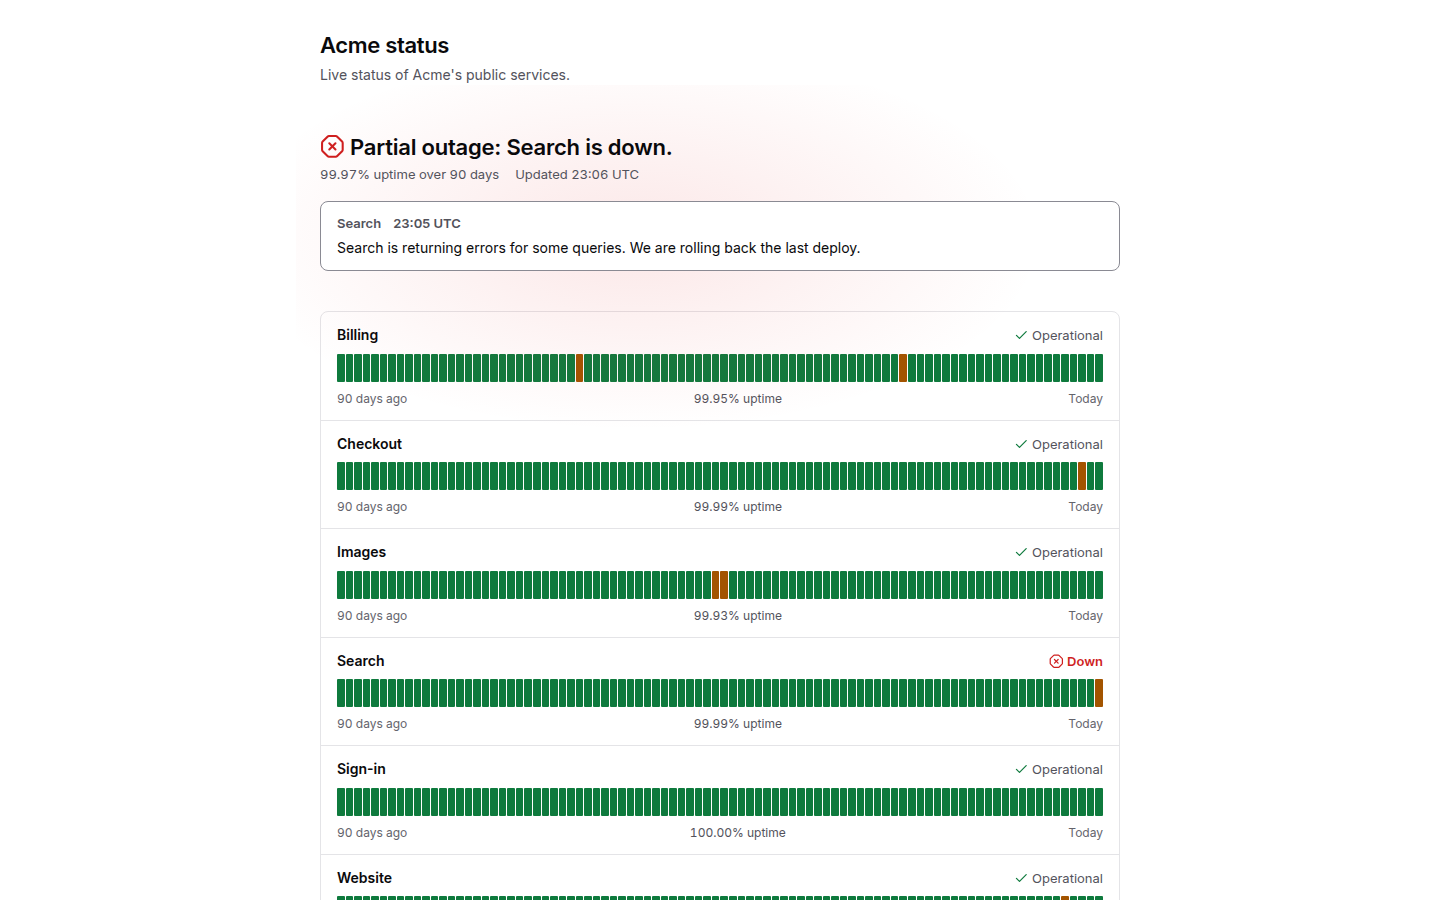
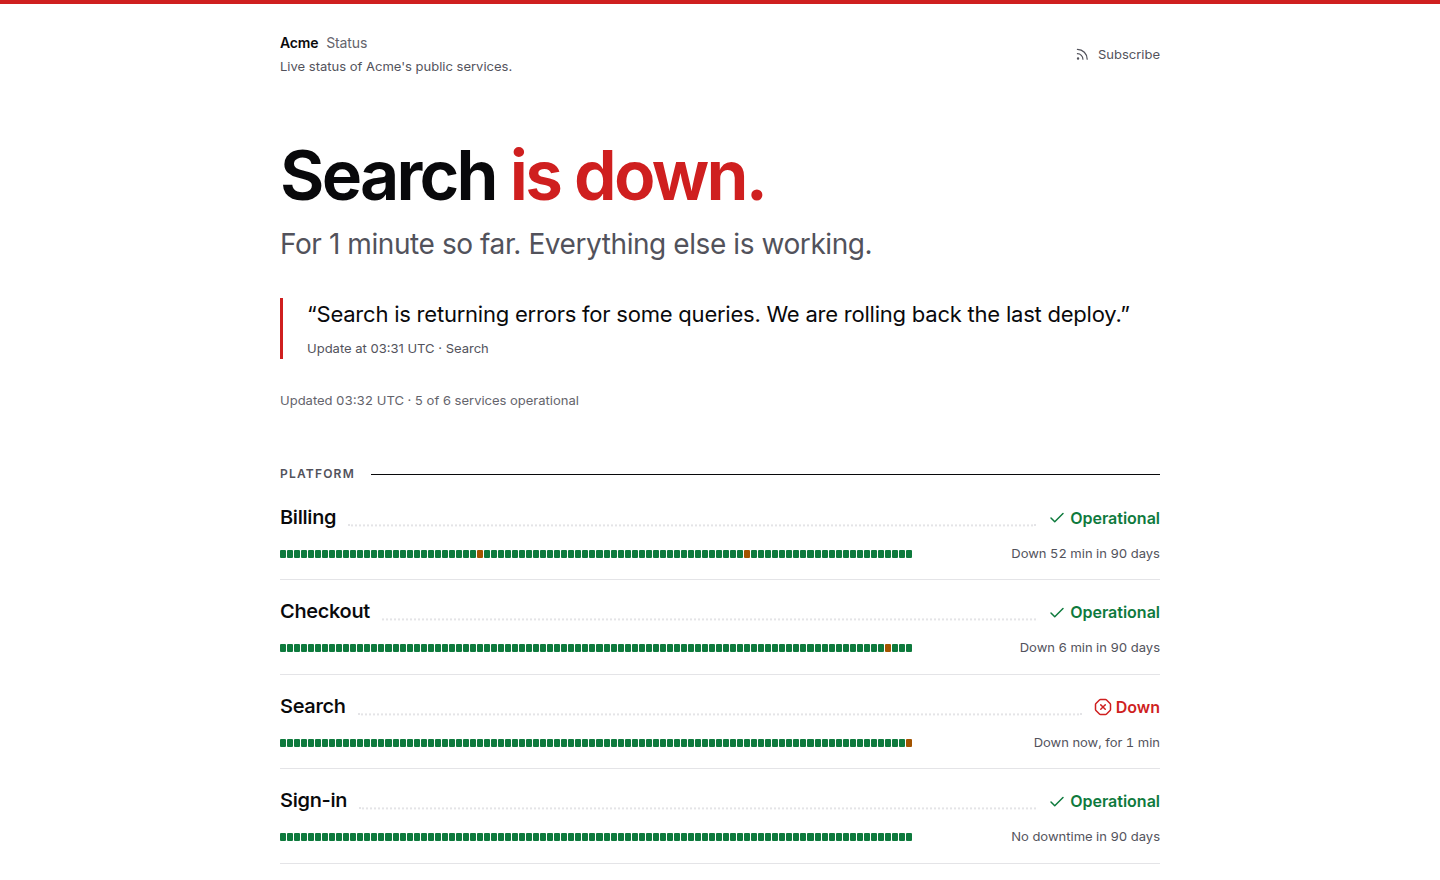
SL-09: Screenshots and README.
make screenshots adds 48 whole-page status shots (4 layouts x Daylight/Stark/Terminal x 1440/390 x outage with note, then calm after Search recovers); demo page gets groups, latency, title Acme (was 'Acme status Status'); README status image = Sentence/Daylight outage (lossless recompress, 75 KB) + four layouts in features. Review - Sentence: matches sketch, red rule, quoted note, dotted leaders, 30-day sentences; calm headline balance-wraps as in sketch. Signal: lamp+glyph, cards 2-up/1-up, group summaries, Terminal square lamp; fine. Heartline: pulses, down tail dashed red, Website bars in place of pulse, mono figures; fine. Logbook: calendar months/weeks, today ringed, rest dashed, panel opens newest day; FIXED phone service rows (group on its own 3rd line -> docs/12 two lines via grid). Sketches' .dc.html runtime (support.js) is missing so they don't render; reviewed against their markup + docs/12. One unexplained test-browser failure, then 4 clean passes.

diff --git a/web/static/css/public_logbook.css b/web/static/css/public_logbook.css
@@ -457,7 +457,8 @@ a.cal-day:focus-visible {
 }
 
 /* Phones: a tighter hero and card, the legend under the title, each
- * service on two lines (name and state; group and figures). */
+ * service on two lines: the dot, name and state; then the group and the
+ * figures. The name's paragraph lends its parts to the row's grid. */
 @media (max-width: 40rem) {
   .logbook-hero {
     padding: var(--space-3) 0 var(--space-2);
@@ -472,29 +473,16 @@ a.cal-day:focus-visible {
     padding: var(--space-3) var(--space-4);
   }
   .logbook-service {
-    grid-template-columns: minmax(0, 1fr) auto;
+    grid-template-columns: 9px auto minmax(0, 1fr) auto;
     gap: var(--space-1) var(--space-3);
-    align-items: start;
   }
   .logbook-service-name {
-    flex-wrap: wrap;
+    display: contents;
   }
-  .logbook-service-group {
-    flex-basis: 100%;
-    order: 1;
-    padding-left: calc(9px + var(--space-3));
-  }
-  .logbook-service-uptime,
-  .logbook-service-latency {
-    grid-row: 2;
-    text-align: left;
-  }
-  .logbook-service-uptime {
-    grid-column: 1;
-    padding-left: calc(9px + var(--space-3));
-  }
-  .logbook-service-latency {
-    grid-column: 2;
-    text-align: right;
-  }
+  .logbook-dot { grid-area: 1 / 1; }
+  .logbook-service-name > span:nth-child(2) { grid-area: 1 / 2 / 2 / 4; min-width: 0; }
+  .logbook-service-state { grid-area: 1 / 4; text-align: right; }
+  .logbook-service-group { grid-area: 2 / 2; }
+  .logbook-service-uptime { grid-area: 2 / 3; text-align: left; }
+  .logbook-service-latency { grid-area: 2 / 4; }
 }

diff --git a/tests/browser/screenshots_test.go b/tests/browser/screenshots_test.go
@@ -70,7 +70,7 @@ func TestScreenshots(t *testing.T) {
 
 	sh := &shooter{t: t, out: out}
 	sh.matrix(ctx, s, ids["Search"])
-	sh.statusPages(ctx, s, demo.page)
+	sh.statusPages(ctx, s, demo, ids["Search"])
 	sh.extras(ctx, s)
 	sh.forms(ctx, s, demo.targets["Billing"].URL+"/health", ids["Billing"])
 	sh.writeIndex()
@@ -209,24 +209,50 @@ func (d *demo) finish(t *testing.T, ctx context.Context, s *server, ids map[stri
 
 	steps := []chromedp.Action[chromedp.Void]{
 		chromedp.Navigate(s.base + "/status-pages/new"),
-		chromedp.SendKeys(chromedp.CSS("#title"), "Acme status"),
+		chromedp.SendKeys(chromedp.CSS("#title"), "Acme"),
 		chromedp.SendKeys(chromedp.CSS("#slug"), "acme"),
 		chromedp.SendKeys(chromedp.CSS("#description"), "Live status of Acme's public services."),
+		chromedp.SendKeys(chromedp.CSS("#groups"), "Platform\nWebsite"),
 		chromedp.Click(chromedp.CSS("#visibility-public")),
 	}
-	for name, public := range map[string]string{
-		"Checkout API": "Checkout", "Billing": "Billing", "Auth service": "Sign-in",
-		"Search": "Search", "Marketing site": "Website", "Image CDN": "Images",
-	} {
+	for _, m := range demoPublic {
 		steps = append(steps,
-			chromedp.Click(chromedp.CSS("#m_show_"+ids[name])),
-			chromedp.SendKeys(chromedp.CSS("#m_name_"+ids[name]), public))
+			chromedp.Click(chromedp.CSS("#m_show_"+ids[m.name])),
+			chromedp.SendKeys(chromedp.CSS("#m_name_"+ids[m.name]), m.public))
 	}
 	steps = append(steps,
 		chromedp.Click(chromedp.CSS(`form.monitor-form button[type="submit"]`)),
 		chromedp.WaitVisible(chromedp.CSS(".sp-list")))
 	do(t, ctx, "create the status page", steps...)
 	d.page = get(t, ctx, "read the edit link", chromedp.AttributeValue(chromedp.CSS(`.sp-list a[href$="/edit"]`), "href")).Value
+
+	// A group can be chosen only once the page has it.
+	steps = []chromedp.Action[chromedp.Void]{chromedp.Navigate(s.base + d.page)}
+	for _, m := range demoPublic {
+		steps = append(steps, chromedp.SetValue(chromedp.CSS("#m_group_"+ids[m.name]), m.group))
+		if m.latency {
+			steps = append(steps, chromedp.Click(chromedp.CSS("#m_latency_"+ids[m.name])))
+		}
+	}
+	steps = append(steps,
+		chromedp.Click(chromedp.CSS(`form.monitor-form button[type="submit"]`)),
+		chromedp.WaitVisible(chromedp.CSS(".sp-list")))
+	do(t, ctx, "group the status page", steps...)
+}
+
+// demoPublic is what the demo status page shows: each monitor's public
+// name, its group and whether its latency is shown. Website leaves latency
+// off, so Heartline shows its bars in place of a pulse.
+var demoPublic = []struct {
+	name, public, group string
+	latency             bool
+}{
+	{"Checkout API", "Checkout", "Platform", true},
+	{"Billing", "Billing", "Platform", true},
+	{"Auth service", "Sign-in", "Platform", true},
+	{"Search", "Search", "Platform", true},
+	{"Marketing site", "Website", "Website", false},
+	{"Image CDN", "Images", "Website", true},
 }
 
 // seedHistory writes the past into the stopped server's database: every
@@ -376,9 +402,11 @@ type shot struct {
 	Page    string `json:"page"`
 	Theme   string `json:"theme"`
 	Density string `json:"density,omitempty"`
+	State   string `json:"state,omitempty"` // calm or outage, on status pages
 	Size    string `json:"size"`
 	Width   int64  `json:"width"`
 	Height  int64  `json:"height"`
+	Full    bool   `json:"full,omitempty"` // the whole page, not the viewport
 }
 
 type shooter struct {
@@ -407,21 +435,34 @@ func (sh *shooter) matrix(ctx context.Context, s *server, down string) {
 	}
 }
 
-// statusPages shoots the public page in each of its themes, as a stranger.
-func (sh *shooter) statusPages(ctx context.Context, s *server, edit string) {
+// statusPages shoots the public page, as a stranger, in each layout and
+// theme at desktop and phone size, the whole page: first during Search's
+// live outage with its note, then calm once Search is back up.
+func (sh *shooter) statusPages(ctx context.Context, s *server, d *demo, search string) {
 	t := sh.t
 	v := visitor(t, ctx)
-	for _, theme := range []string{"daylight", "stark", "terminal"} {
-		do(t, ctx, "set the status page theme to "+theme,
-			chromedp.Navigate(s.base+edit),
-			chromedp.SetValue(chromedp.CSS("#theme"), theme),
-			chromedp.Click(chromedp.CSS(`form.monitor-form button[type="submit"]`)),
-			chromedp.WaitVisible(chromedp.CSS(".sp-list")),
-		)
-		for _, sz := range []size{desktop, phone} {
-			sh.take(v, s.base+"/status/acme", shot{Page: "status-page", Theme: theme, Size: sz.name}, sz)
+	shoot := func(state string) {
+		for _, layout := range []string{"signal", "sentence", "heartline", "logbook"} {
+			for _, theme := range []string{"daylight", "stark", "terminal"} {
+				do(t, ctx, "set the status page to "+layout+" in "+theme,
+					chromedp.Navigate(s.base+d.page),
+					chromedp.Click(chromedp.CSS(`label[for="layout-`+layout+`"]`)),
+					chromedp.SetValue(chromedp.CSS("#theme"), theme),
+					chromedp.Click(chromedp.CSS(`form.monitor-form button[type="submit"]`)),
+					chromedp.WaitVisible(chromedp.CSS(".sp-list")),
+				)
+				openLayout(t, v, s.base+"/status/acme", layout) // past the cached view
+				for _, sz := range []size{desktop, phone} {
+					sh.take(v, s.base+"/status/acme", shot{Page: "status-" + layout, Theme: theme, State: state, Size: sz.name, Full: true}, sz)
+				}
+			}
 		}
 	}
+	shoot("outage")
+	d.down.Store(false)
+	do(t, ctx, "open Search", chromedp.Navigate(s.base+"/monitors/"+search))
+	waitState(t, ctx, "header.monitor-header", "up", 60*time.Second)
+	shoot("calm")
 }
 
 // extras: the command palette, the phone menu open and the sign-in page,
@@ -487,11 +528,17 @@ func (sh *shooter) take(ctx context.Context, url string, sc shot, sz size, then 
 	}
 	steps = append(steps, then...)
 	do(t, ctx, "open "+url, steps...)
-	png := get(t, ctx, "screenshot "+url, chromedp.CaptureScreenshot())
+	capture := chromedp.CaptureScreenshot()
+	if sc.Full {
+		capture = chromedp.FullScreenshot(100)
+	}
+	png := get(t, ctx, "screenshot "+url, capture)
 
 	parts := []string{sc.Page, sc.Theme}
-	if sc.Density != "" {
-		parts = append(parts, sc.Density)
+	for _, p := range []string{sc.Density, sc.State} {
+		if p != "" {
+			parts = append(parts, p)
+		}
 	}
 	parts = append(parts, sc.Size)
 	sc.File = strings.Join(parts, "-") + ".png"

diff --git a/docs/IMPLEMENTATION_CHECKLIST.md b/docs/IMPLEMENTATION_CHECKLIST.md
@@ -313,3 +313,4 @@ Claude Code should update this file as milestones are completed.
 - SL-06: Logbook, status page layout D (docs/12 "Logbook", sketch `imp-docs/status-layouts/Logbook.dc.html`). `logbookPage` in `public.templ`: the header with Subscribe as a bordered button; the hero with a 44 px disc in the overall colour (`--disc` from `data-overall`) holding the overall glyph, the shared headline and one line under it (`logbookSub`: `LastIssue` and "Updated 00:57 CET." when calm; "Since 13:52, 18 minutes so far. The other 4 services are working. Updated 14:10 CET." during an outage, from the new `DownSince`); the calendar card (`logbookCalendar`) with its five-item legend and one grid of cells placed by attributes into the desktop month rows (`data-m`, `data-d`) or the weekly rows below 60rem (`data-w`, `data-wd`), the worst class per day, today ringed, the rest of the month dashed (`CalendarUpcoming`), every cell with its words hidden and as a title; an incident day is a link to its own id followed by its panel, opened by `:target` with the adjacent-sibling combinator, the newest open without a target (`data-newest`), the panel with the long title, the day's incidents through the new shared `publicIncidentSentence` and `publicNotes`, and "Every other service had no issues." when `OthersFine` holds and there is another service; the services as a flat list (dot, name, group, state and tag, "99.70% · 90 days" or "Since 25 Oct, 100.00%", "71 ms" or "no reply"); the logbook as a timeline, ongoing first, "Fri 23 Oct · 09:14 to 09:26" from the new `EndTime`, the sentence and the notes or "No note was published."; the footer centred. `internal/web/public.go`: `calendarOf` now takes the rows and returns the days with `Month`, `Dom`, `Week`, `Weekday`, `Long` and `OthersFine` (`placeDay`, `othersFine`), the month and week labels and the upcoming days; `DownSince` and `EndTime`. `css/public_logbook.css` (3.6 KB gzip) and the `--calendar-up` token in all three themes (3:1 on `surface-1`, with `status-warning`, `status-down` and `chart-maintenance`, in `tokens_test.go`). Checked in Chrome: Daylight calm at 1440 (24 px cells, the newest day open) and 390 px (36 px weekly cells, no horizontal scroll, the services on two lines), Stark and Terminal during the outage, and `:target` opening 7 Oct and closing today. Tests: `TestLogbookPageCalm`/`Outage`/`CalendarWords`, `TestPublicPageLogbookLayout` (through the handler, with the private-detail check), a Logbook page in the CSP test, the new fields in `TestPublicViewFields` and `TestCalendarOf`. Bench in docs/18. Small calls: the calendar turns weekly below 60rem rather than only on phones, because 31 columns of 24 px need the full 960 px column; on the weekly grid the days to come are shown only to the end of this week (`data-later` hides the rest), so a month's tail does not add empty rows; the cells' words are both a visually hidden span (for assistive technology) and a `title` (for hover); "Every other service had no issues." is left out on a single-service page; Logbook writes "no reply" (the sketch's word) where Signal writes "no response"; the services list is flat, the group named beside the service, as sketched.
 - SL-07: Heartline, status page layout C (docs/12 "Heartline", docs/04 "Response pulse", sketch `imp-docs/status-layouts/Heartline.dc.html`). Data (`internal/web/pulse.go`): a Heartline page's build reads `store.LatencyHistory` over the last 24 hours in 96 buckets for each service with "Show latency" on (`Public.row` with `pulse` set only for this layout), cached with the view; `pulseOf` draws it as SVG path data in a fixed 960 × 64 viewBox (`templates.Pulse`: the line through the bucket averages, broken where a bucket has no sample; the area per run; the end dot as a zero-length round-capped path that keeps its size while the box stretches; the dashed floor from the moment the service went down; the label "Response over 24 hours: min 41 ms, median 70 ms, max 312 ms" or "No response data in the last 24 hours."); the row's `DownSince` and the page's `MedianLatency` (`medianLatency`, over the services that replied). The services of a page are now built four at a time (`Public.rows`, `publicRowWorkers`): 25 days of raw results could not be read inside the 50 ms budget on one goroutine (80 ms → 38 ms; the Sentence page's cold build 22 → 10 ms). `heartlinePage` in `public.templ`: the header with Subscribe as a bordered button; the hero on the Ambient light (moved left) with the live dot (`--live` from `data-state`, one ring every 2 s), the mono "LIVE · UPDATED 14:10 CET" line, the shared headline as `h1` and the figures "Uptime, 90 days" and "Response, median" (left out without one, or with nothing monitored); the ongoing note as a band (the shared `publicNote`, meta line first in mono and the down colour); the column legend; one panel per group (`heartlinePanel`) whose rows (`heartlineRow`) hold the name, the state with its Terminal tag and "· 99.70% in 90 days", "· 100.00% since 25 Oct" or "since 13:52" while down, the `pulse` (`role="img"` with its label, the scan line a span swept by CSS over 6 s), the figure ("71 ms" / "last check", "no reply" while down, "—" / "no check yet") and the 5 px strip under all three, or the strip alone at 26 px for a service without latency; the single axis; "Incidents" with "FRI 23 OCT 09:14" in mono, the service and "down 12 min, resolved" / "down 18 min, ongoing" (`heartlineDuration`) and the notes; the footer centred. `css/public_heartline.css` (3.2 KB gzip): the three-column row grid with the strip on a second row, the pulse strokes (`vector-effect: non-scaling-stroke`), reduced motion hides the scan line and the dot's ring; Terminal has no area fill or scan line, square dots, double box rules, tags; phones put the figures under the headline, drop the legend and stack each row as name and state, figure, pulse (48 px), strip. Checked in Chrome in Daylight, Stark and Terminal at 1440 and 390 px (no horizontal scroll, 44 px Subscribe, 48 px pulse) and under reduced motion. Tests: `TestPulseOf`, `TestMedianLatency`, `TestHeartlineView` (the rows' pulses, gap, tail and `DownSince`, the median, no read in Sentence), the rows' order with parallel reads in `TestPublicViewFields`, templates `TestHeartlinePageCalm`/`Outage`, a Heartline page in the CSP test, `TestPublicPageHeartlineLayout` (through the handler, with the private-detail check). `BenchmarkStatusPageHeartline` (25 services, latency on, a check a minute for a day) in docs/18. Small calls: `LatencyHistory` is read only when the page's layout is Heartline, since the view is built per page and another layout would pay 25 reads for nothing; the bucket index uses integer arithmetic (a float put the 12h15 bucket a hair under 49); the median of an even count is the mean of the two middle values; the figure's small line reads "last check" under "no reply" too (the sketch's "timed out after 5 s" is diagnostic detail docs/12 "Content" keeps off the page); the figures are left out with nothing monitored; the hero's "Live · Updated" is uppercase by CSS so assistive technology reads words.
 - SL-08: layout tests and accessibility (docs/20 "SL: status page layouts", docs/22, docs/39 UI gate, docs/18). Found and fixed: (1) Signal's cards, Logbook's services and Heartline's rows showed a service's state as a word beside a dot of one shape, against docs/12 "States"; the shared `publicState` partial now draws the `publicStateIcon` glyph, the word and the Terminal tag in all four layouts (in `--dot` beside the word, the text colour in Terminal). (2) Signal's lamp highlight was the lamp colour at 55 % over white, where Daylight's white glyph measured about 2.4:1; it is 72 % now (3.2–3.6:1). Tests: `internal/web/layouts_test.go` (each layout × theme: scenario 17 at every address in HTML, `api.json` and `feed.xml`, closed pages closed in every format, no script or inline code and the app's CSP with the accent hash only; mutation-checked), `web/templates/public_a11y_test.go` (heading order, landmarks, named sections, one distinct glyph per state per row), `web/tokens_test.go` `TestStatusPageLayoutContrast` and `TestLayoutMixesMatchCSS` (the layouts' new colour pairs), `web/public_css_test.go` (every animation stopped under reduced motion, no transitions, each layout sheet under 6 KB gzip), and the browser test `TestStatusPageLayouts` (each layout × theme at 1440 and 390 px: no horizontal scroll, no console error, nothing animating under reduced motion, Logbook's older day link opens its panel; mutation-checked without the reduced-motion emulation). The layout tests' expected markup now includes the glyph. CSS sizes in docs/18: Sentence 2.0, Signal 2.7, Heartline 3.2, Logbook 3.6 KB gzip. Small calls: the browser test reopens the page until the saved layout shows, because a save in the same second as a cached view keeps that view for up to the 10 s cache (`updated_at` counts whole seconds); the glyph takes the state colour like the word, not a new token.
+- SL-09: screenshots and README. `make screenshots` now shoots the demo status page in every layout (Signal, Sentence, Heartline, Logbook), in Daylight, Stark and Terminal, at 1440 and 390 px, as whole-page shots: first during Search's live outage with its published note, then calm once the target answers again and Search is back up (`status-<layout>-<theme>-<state>-<size>.png`, 48 shots; `index.json` gains `state` and `full`). The demo page gained the groups Platform and Website and latency on every service but Website, so Heartline shows both the pulse and the bars that replace it; it is titled "Acme" (as "Acme status" it read "Acme status Status" and "Everything at Acme status is working."). Reviewed every shot against docs/12 "Layouts" and the sketches' markup (the sketches' `.dc.html` runtime is not in the repo, so they do not render). Fixed: Logbook's phone service rows showed the group on a line of its own, three loose lines per service, against docs/12's two (name and state; group and figures); the name's paragraph now lends its parts to the row's grid on phones (`public_logbook.css` 3.7 KB gzip, docs/18). README: the status page image is now Sentence in Daylight during the outage (1440×880, recompressed losslessly like the others, 75 KB), and the features list the four layouts. Docs: 18, 20.

diff --git a/docs/20_TESTING.md b/docs/20_TESTING.md
@@ -321,7 +321,10 @@ The backup/restore confirmation test follows the backup UI (M9-01).
 - Demo data, made the way a user makes it: setup, nine monitors through the create form (HTTP, TCP, heartbeat; neutral names, local targets only), a public status page, a published note.
 - The past: with the server stopped, 90 days of history are written straight into SQLite (`monitors.created_at`, 7 days of `check_results`, five ended incidents with their events). The engine reads them back on restart, so beat bars, day bars and charts are full. The heartbeat monitor gets a week of nightly beats, so it is not overdue at the restart. `modernc.org/sqlite` is in the test module only.
 - The present: after the restart one target answers 503 (Search goes down live), the heartbeat gets a beat, and Staging API is paused.
-- Matrix: Stark with Ambient light on and off, Terminal and Daylight, each comfortable and compact, at 1440×900, 2560×1080 and 390×844; Home and the down monitor's detail, plus the list view on phones. Extras: the status page in its three themes (desktop, phone), the command palette, the phone menu open, sign-in. 65 shots in about 80 s. `prefers-reduced-motion` is emulated so no shot catches a transition.
+- The status page has the groups Platform and Website; every service but Website shows its latency, so Heartline shows both a pulse and the bars that replace it.
+- Matrix: Stark with Ambient light on and off, Terminal and Daylight, each comfortable and compact, at 1440×900, 2560×1080 and 390×844; Home and the down monitor's detail, plus the list view on phones. Extras: the command palette, the phone menu open, sign-in, and the monitor forms.
+- Status pages (SL-09): every layout in Daylight, Stark and Terminal at 1440 and 390 px, as whole-page shots (`status-<layout>-<theme>-<state>-<size>.png`): first during Search's live outage with its note, then calm once Search is back up. 48 shots.
+- About 150 s in all. `prefers-reduced-motion` is emulated so no shot catches a transition.
 
 ## Benchmarks
 

diff --git a/README.md b/README.md
@@ -14,7 +14,7 @@ Sinjal is a small, fast, self-hosted uptime monitor. It is one Go binary with on
     <td width="50%"><img src="docs/screenshots/monitor-daylight.png" alt="The same monitor in the Daylight theme: black ink on white, with the latency chart of the last 24 hours"></td>
   </tr>
   <tr>
-    <td width="50%"><img src="docs/screenshots/status-page.png" alt="A public status page: Partial outage: Search is down, a published note, and 90-day bars for each service"></td>
+    <td width="50%"><img src="docs/screenshots/status-page.png" alt="A public status page in the Sentence layout, Daylight: &quot;Search is down.&quot; in large type, the published note as a quote, then each service with its 90-day strip and downtime in words"></td>
     <td width="50%" align="center"><img src="docs/screenshots/phone-stark.png" alt="The monitor list on a phone, in Stark" width="60%"></td>
   </tr>
 </table>
@@ -44,6 +44,7 @@ Sinjal is a small, fast, self-hosted uptime monitor. It is one Go binary with on
 - **History:** response-time charts and uptime from 24 hours up to a year. Raw results are kept for 7 days, then rolled up (5-minute, hourly and daily buckets).
 - **Status pages:**
   - as many as you need
+  - four layouts, each in any theme: Sentence (the default, a plain-language headline), Signal (a large status lamp and service cards), Heartline (24-hour response pulses) and Logbook (a 90-day calendar and an incident log)
   - public, signed-in only, password-protected or unlisted
   - custom domains, a JSON endpoint and an incident feed
   - published notes

diff --git a/docs/18_PERFORMANCE.md b/docs/18_PERFORMANCE.md
@@ -225,5 +225,5 @@ Heartline layout (SL-07): the new `web.BenchmarkStatusPageHeartline` is `Benchma
 
 Status page layouts, stylesheets (SL-08): every public sheet, `gzip -9`, after the layout tests' fixes (each layout's sheet now styles the state glyph; Signal's lamp highlight changed its mix only).
 - Shared `public.css` 1.9 KB (5.6 KB raw), linked on every public page with tokens, base and components.
-- `public_sentence.css` 2.0 KB (7.5 KB raw), `public_signal.css` 2.7 KB (10.1 KB raw), `public_heartline.css` 3.2 KB (12.2 KB raw), `public_logbook.css` 3.6 KB (14.0 KB raw): all under the 6 KB of a layout sheet. A page links the shared sheet and its layout's alone, so the heaviest, Logbook, adds 5.5 KB of public CSS.
+- `public_sentence.css` 2.0 KB (7.5 KB raw), `public_signal.css` 2.7 KB (10.1 KB raw), `public_heartline.css` 3.2 KB (12.2 KB raw), `public_logbook.css` 3.7 KB (14.1 KB raw; 3.6 KB before SL-09 laid its phone service rows on a grid): all under the 6 KB of a layout sheet. A page links the shared sheet and its layout's alone, so the heaviest, Logbook, adds 5.6 KB of public CSS.
 - `web.TestPublicLayoutSheetsSize` fails a layout sheet at 6 KiB gzip -9, so the budget is kept by the tests, not only recorded here.
